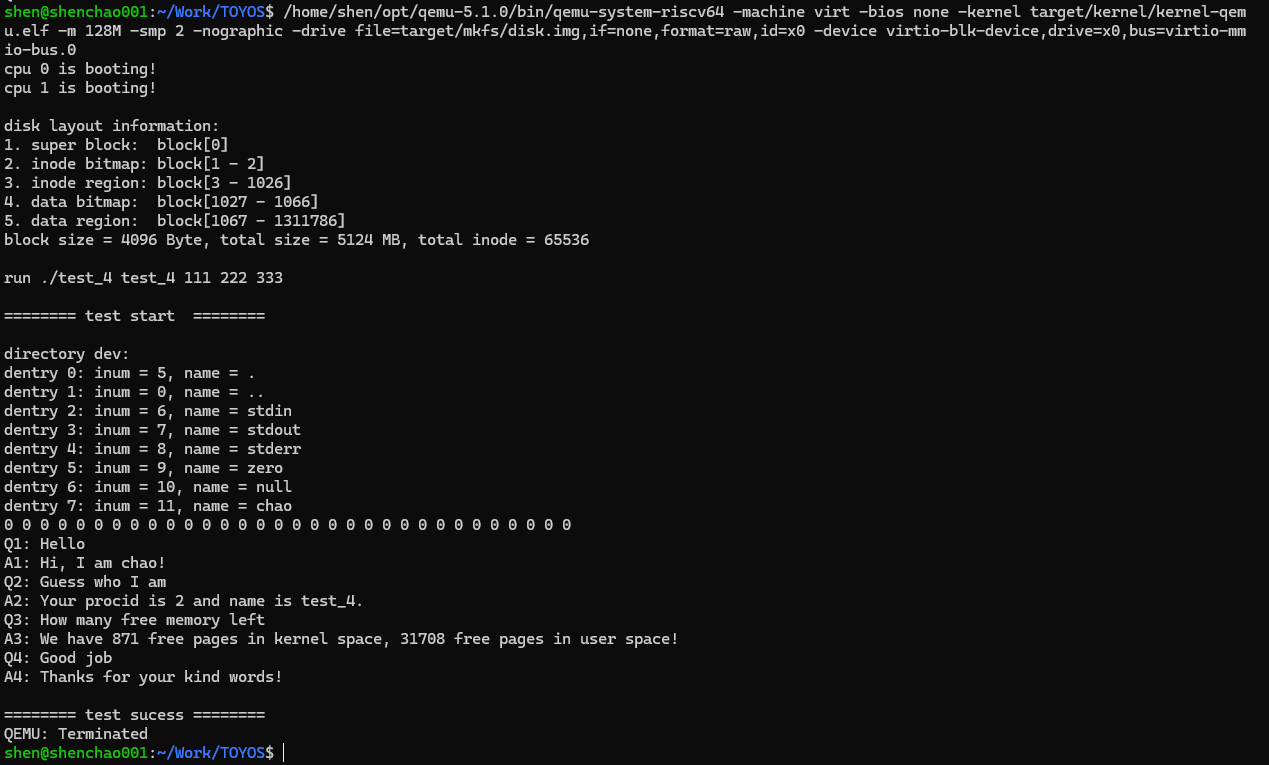
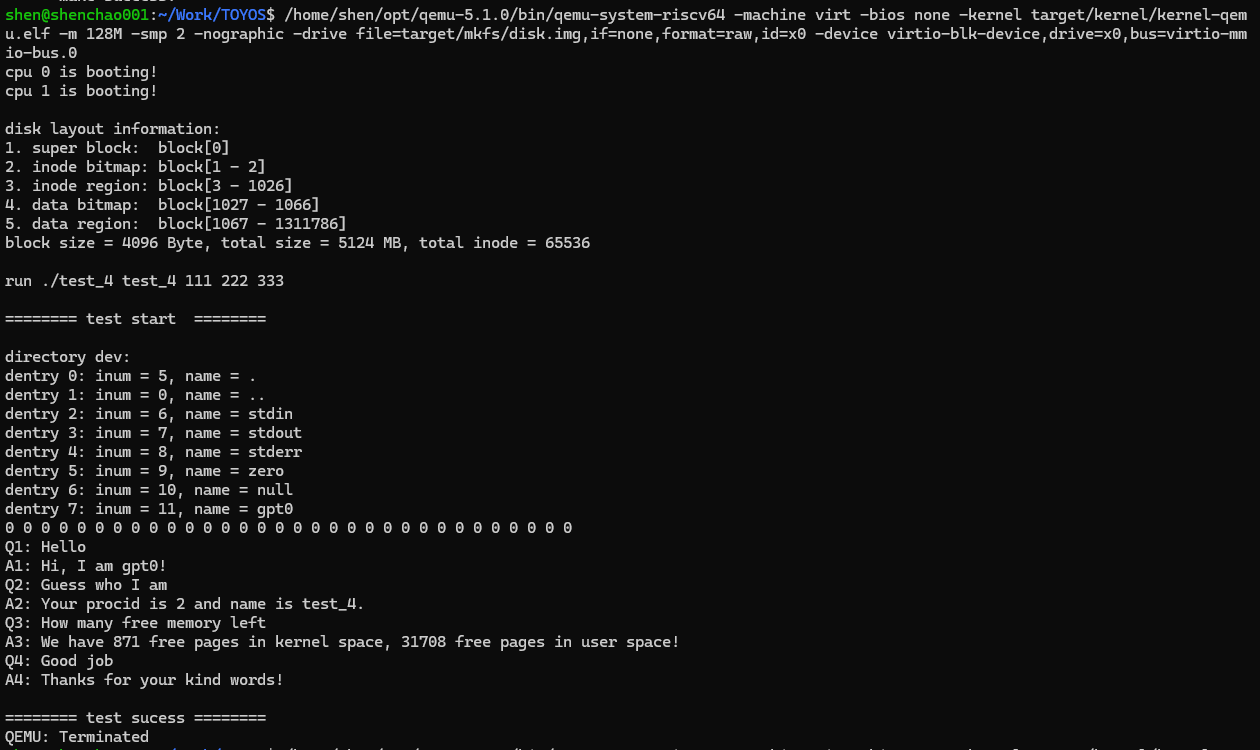
fix(lab9): restore teacher gpt0 device interface

Changed region(s): [[0.0, 0.46, 0.5571, 1.0], [0.0, 0.0, 0.9905, 0.4293]]

diff --git a/src/kernel/fs/device.c b/src/kernel/fs/device.c
@@ -63,8 +63,8 @@ static uint32 device_null_write(uint32 len, uint64 src, bool is_user_src)
 	return len;
 }
 
-/* 个性化问答设备 */
-static uint32 device_chao_write(uint32 len, uint64 src, bool is_user_src)
+/* 彩蛋: 笨蛋GPT */
+static uint32 device_gpt0_write(uint32 len, uint64 src, bool is_user_src)
 {
 	char tmp[STR_MAXLEN + 1];
 	proc_t *p = myproc();
@@ -80,7 +80,7 @@ static uint32 device_chao_write(uint32 len, uint64 src, bool is_user_src)
 		memmove(tmp, (void*)src, len);
 
 	if (strncmp(tmp, "Hello", len) == 0) {
-		printf("Hi, I am chao!\n");
+		printf("Hi, I am gpt0!\n");
 	} else if (strncmp(tmp, "Guess who I am", len) == 0) {
 		printf("Your procid is %d and name is %s.\n", p->pid, p->name);
 	} else if (strncmp(tmp, "How many free memory left", len) == 0) {
@@ -138,7 +138,7 @@ void device_init()
 	device_register(INODE_MAJOR_STDERR, "stderr", NULL, device_stderr_write);
 	device_register(INODE_MAJOR_ZERO, "zero", device_zero_read, NULL);
 	device_register(INODE_MAJOR_NULL, "null", device_null_read, device_null_write);
-	device_register(INODE_MAJOR_CHAO, "chao", NULL, device_chao_write);
+	device_register(INODE_MAJOR_GPT0, "gpt0", NULL, device_gpt0_write);
 
 	/* 节点在干净镜像中创建，在重复启动时复用并验证。 */
 	inode_t *ip = device_ensure_inode("/dev", INODE_TYPE_DIR,
@@ -159,8 +159,8 @@ void device_init()
 	ip = device_ensure_inode("/dev/null", INODE_TYPE_DIVICE,
 		INODE_MAJOR_NULL, INODE_MINOR_DEFAULT);
 	inode_put(ip);
-	ip = device_ensure_inode("/dev/chao", INODE_TYPE_DIVICE,
-		INODE_MAJOR_CHAO, INODE_MINOR_DEFAULT);
+	ip = device_ensure_inode("/dev/gpt0", INODE_TYPE_DIVICE,
+		INODE_MAJOR_GPT0, INODE_MINOR_DEFAULT);
 	inode_put(ip);
 }
 

diff --git a/src/kernel/fs/type.h b/src/kernel/fs/type.h
@@ -146,7 +146,7 @@ typedef struct super_block {
 #define INODE_MAJOR_STDERR    4              // 参观设备文件 (/dev/stderr, 可写)
 #define INODE_MAJOR_ZERO      5              // 特殊设备文件 (/dev/zero, 可读)
 #define INODE_MAJOR_NULL      6              // 特殊设备文件 (/dev/null, 可读可写)
-#define INODE_MAJOR_CHAO      7              // 特殊设备文件 (/dev/chao, 可写)
+#define INODE_MAJOR_GPT0      7              // 特殊设备文件 (/dev/gpt0, 可写)
 #define INODE_MINOR_DEFAULT   1              // 默认的次设备号 (所有文件都使用它)
 
 /* index字段相关 */

diff --git a/src/user/test_4.c b/src/user/test_4.c
@@ -1,6 +1,6 @@
 /*
 	测试四 设备文件的操作
-	/dev/null /dev/zero /dev/chao
+	/dev/null /dev/zero /dev/gpt0
 */
 #include "help.h"
 
@@ -54,7 +54,7 @@ void main(int argc, char *argv[])
 	}
 	sys_close(fd2);
 
-	fd2 = sys_open("chao", OPEN_WRITE);
+	fd2 = sys_open("gpt0", OPEN_WRITE);
 	for (int i = 1; i <= 4; i++) {
 		fprintf(STDOUT, "Q%d: ", i);
 		len = stdin(str, MAXLEN_STR);

diff --git a/README.md b/README.md
@@ -1,42 +1,3 @@
-## Lab-8：文件系统之上层抽象
-
-### 1. 实验目标与实现
-
-Lab-8 在 Lab-7 的 VirtIO、buffer cache、superblock 和 bitmap 之上，补齐 inode、目录项（dentry）和绝对路径解析，使磁盘块能够组织成普通文件与多层目录。实现包含 64 项 inode cache、inode 磁盘元数据同步、10 个直接索引、2 个一级间接索引和 1 个二级间接索引；目录项固定为 64B，支持名称查找、创建、删除以及 `.`、`..` 根目录初始化
-
-inode 数据读写按逻辑块分段，经 buffer cache 访问磁盘；新建索引块先清零再写盘，删除 inode 时递归释放数据块和各级索引块。普通文件拒绝产生空洞的 `offset > size` 写入，并用无溢出方式检查 `INODE_MAX_SIZE`。路径解析从 inode 0 开始，支持连续 `/`；失败路径会释放已经取得的 inode 引用
-
-复查阶段额外确认：新分配的数据块会清零，索引块分配失败不会把无效块号留在 inode 中，目录项创建会拒绝超出 superblock 范围的 inode 号；删除后重新分配同一数据块的隔离测试已读回零填充
-
-mkfs 已预置根目录 inode 0、`ABCD.txt` inode 1 和 `abcd.txt` inode 2，并保留 64 位 `off_t` 块偏移计算，确保 5GB 镜像可以从干净构建中正确生成。Makefile 同时依赖 `mkfs.c` 与 `mkfs.h`，源码改变后会重新制盘。
-
-### 2. 验证环境与结果
-
-测试使用双 hart、QEMU 5.1.0、4096B block 和 `N_BUFFER = N_BUFFER_TEST = 8`。每组测试都先精确重建 `target/mkfs/disk.img`，避免持久化目录项互相污染。教师 Test-2 的大文件读取对象在测试前已释放，实际验证时改为仍持有的大文件 inode `ip_2`；大文件源缓冲区使用静态数组，避免环境中物理页不保证连续导致的无关失败。
-
-| 测试   | 验证内容                              | 实际 QEMU 结果                                                                                                                           |
-| ------ | ------------------------------------- | ---------------------------------------------------------------------------------------------------------------------------------------- |
-| Test 1 | inode cache、创建、引用计数与最后释放 | 根 inode 为 0、DIR、size 256；创建 inode 3/4 后 bitmap 为 `0 1 2 3 4`，释放后恢复为 `0 1 2`，无 panic。                                  |
-| Test 2 | 小文件、一级和二级索引、大文件读回    | 小文件 size 16000、直接块 1074--1077；大文件 size 174940000，直接块 1074--1083、一级索引 1084/2109、二级索引 3134，末尾读回 `GHABCDEF`。 |
-| Test 3 | 目录项查找、创建、删除与空槽复用      | 根目录初始项位于 0/64/128/192，新目录写入偏移 256，删除后恢复四个初始项，并正确读回预置文件内容。                                        |
-| Test 4 | 多层绝对路径与父目录解析              | `name=file.txt`；目标 inode 5、父目录 inode 4，文件 size 22、数据块 1076，读回 `This is file context!`。                                 |
-
-Test 1：
-
-![Lab-8 Test1](pictures/lab-8-test-1-inode.png)
-
-Test 2：
-
-![Lab-8 Test2](pictures/lab-8-test-2-index.png)
-
-Test 3：
-
-![Lab-8 Test3](pictures/lab-8-test-3-dentry.png)
-
-Test 4：
-
-![Lab-8 Test4](pictures/lab-8-test-4-path.png)
-
 ## Lab-9：文件系统之文件管理与全系统整合
 
 ### 1. 实验目标
@@ -75,9 +36,9 @@ Lab-8 已有的目录项和绝对路径能力在本实验中补齐为：
 | `/dev/stderr` | 写入前输出 `ERROR: ` | 只写 |
 | `/dev/zero` | 返回任意长度的零字节 | 只读 |
 | `/dev/null` | 读返回 0 字节，写接受全部数据 | 读写 |
-| `/dev/chao` | 对四个预设问题给出回答 | 只写 |
+| `/dev/gpt0` | 对四个预设问题给出回答 | 只写 |
 
-教师骨架采用原实验命名；本实现按个人实验约定改为 `/dev/chao`，保留主设备号 7、只写权限和四个问答分支，设备文件测试的覆盖范围不变。
+本实现遵循教师原始命名，保留主设备号 7、只写权限和四个问答分支，设备文件测试的覆盖范围不变。
 
 `device_open_check` 按主设备号和读写模式检查接口是否存在；普通文件层不直接假设设备的读写能力，从而避免打开只支持单向操作的设备。
 
@@ -168,7 +129,7 @@ fork + exec + 用户态 test_1~test_4
 | Test 1 | exec 参数、argc/argv、stdin、stdout、stderr | 输入 `final audit input` 后得到原文回显、`ERROR: final audit input` 和 `test sucess`；参数为 `test_1/111/222/333`。 |
 | Test 2 | root fstat、普通文件 500 次写入、lseek 回读、目录项枚举、dup/close、mmap 清理 | root inode 为 0、size 为 448；`ABC.txt` inode 为 12、size/offset 为 12390；读回尾部包含 `498` 和 `499`，目录项顺序正确，最后映射为空。 |
 | Test 3 | cwd、mkdir、相对路径、硬链接、fstat、unlink | cwd 依次为 `/`、`/new_workdir`、`/new_workdir/2025_12_22/19:00`、`/`；读回 `hello world!`，`hello.txt` 的 nlink 为 2，删除后根目录恢复。 |
-| Test 4 | `/dev` 目录、zero/null、chao | 列出七个 `/dev` 条目并读到 32 个零值；输入 `Hello`、`Guess who I am`、`How many free memory left`、`Good job` 分别覆盖 chao 四个合法分支，最终输出 `test sucess`。 |
+| Test 4 | `/dev` 目录、zero/null、gpt0 | 列出七个 `/dev` 条目并读到 32 个零值；输入 `Hello`、`Guess who I am`、`How many free memory left`、`Good job` 分别覆盖 gpt0 四个合法分支，最终输出 `test sucess`。 |
 
 另外使用临时用户态断言补测了三类失败边界：已映射区间的重叠 `mmap`、未映射或超范围的 `munmap` 均返回 `-1`；以 `OPEN_WRITE` 打开根目录被拒绝。临时测试代码已在验证后移除，没有进入最终源码。
 
